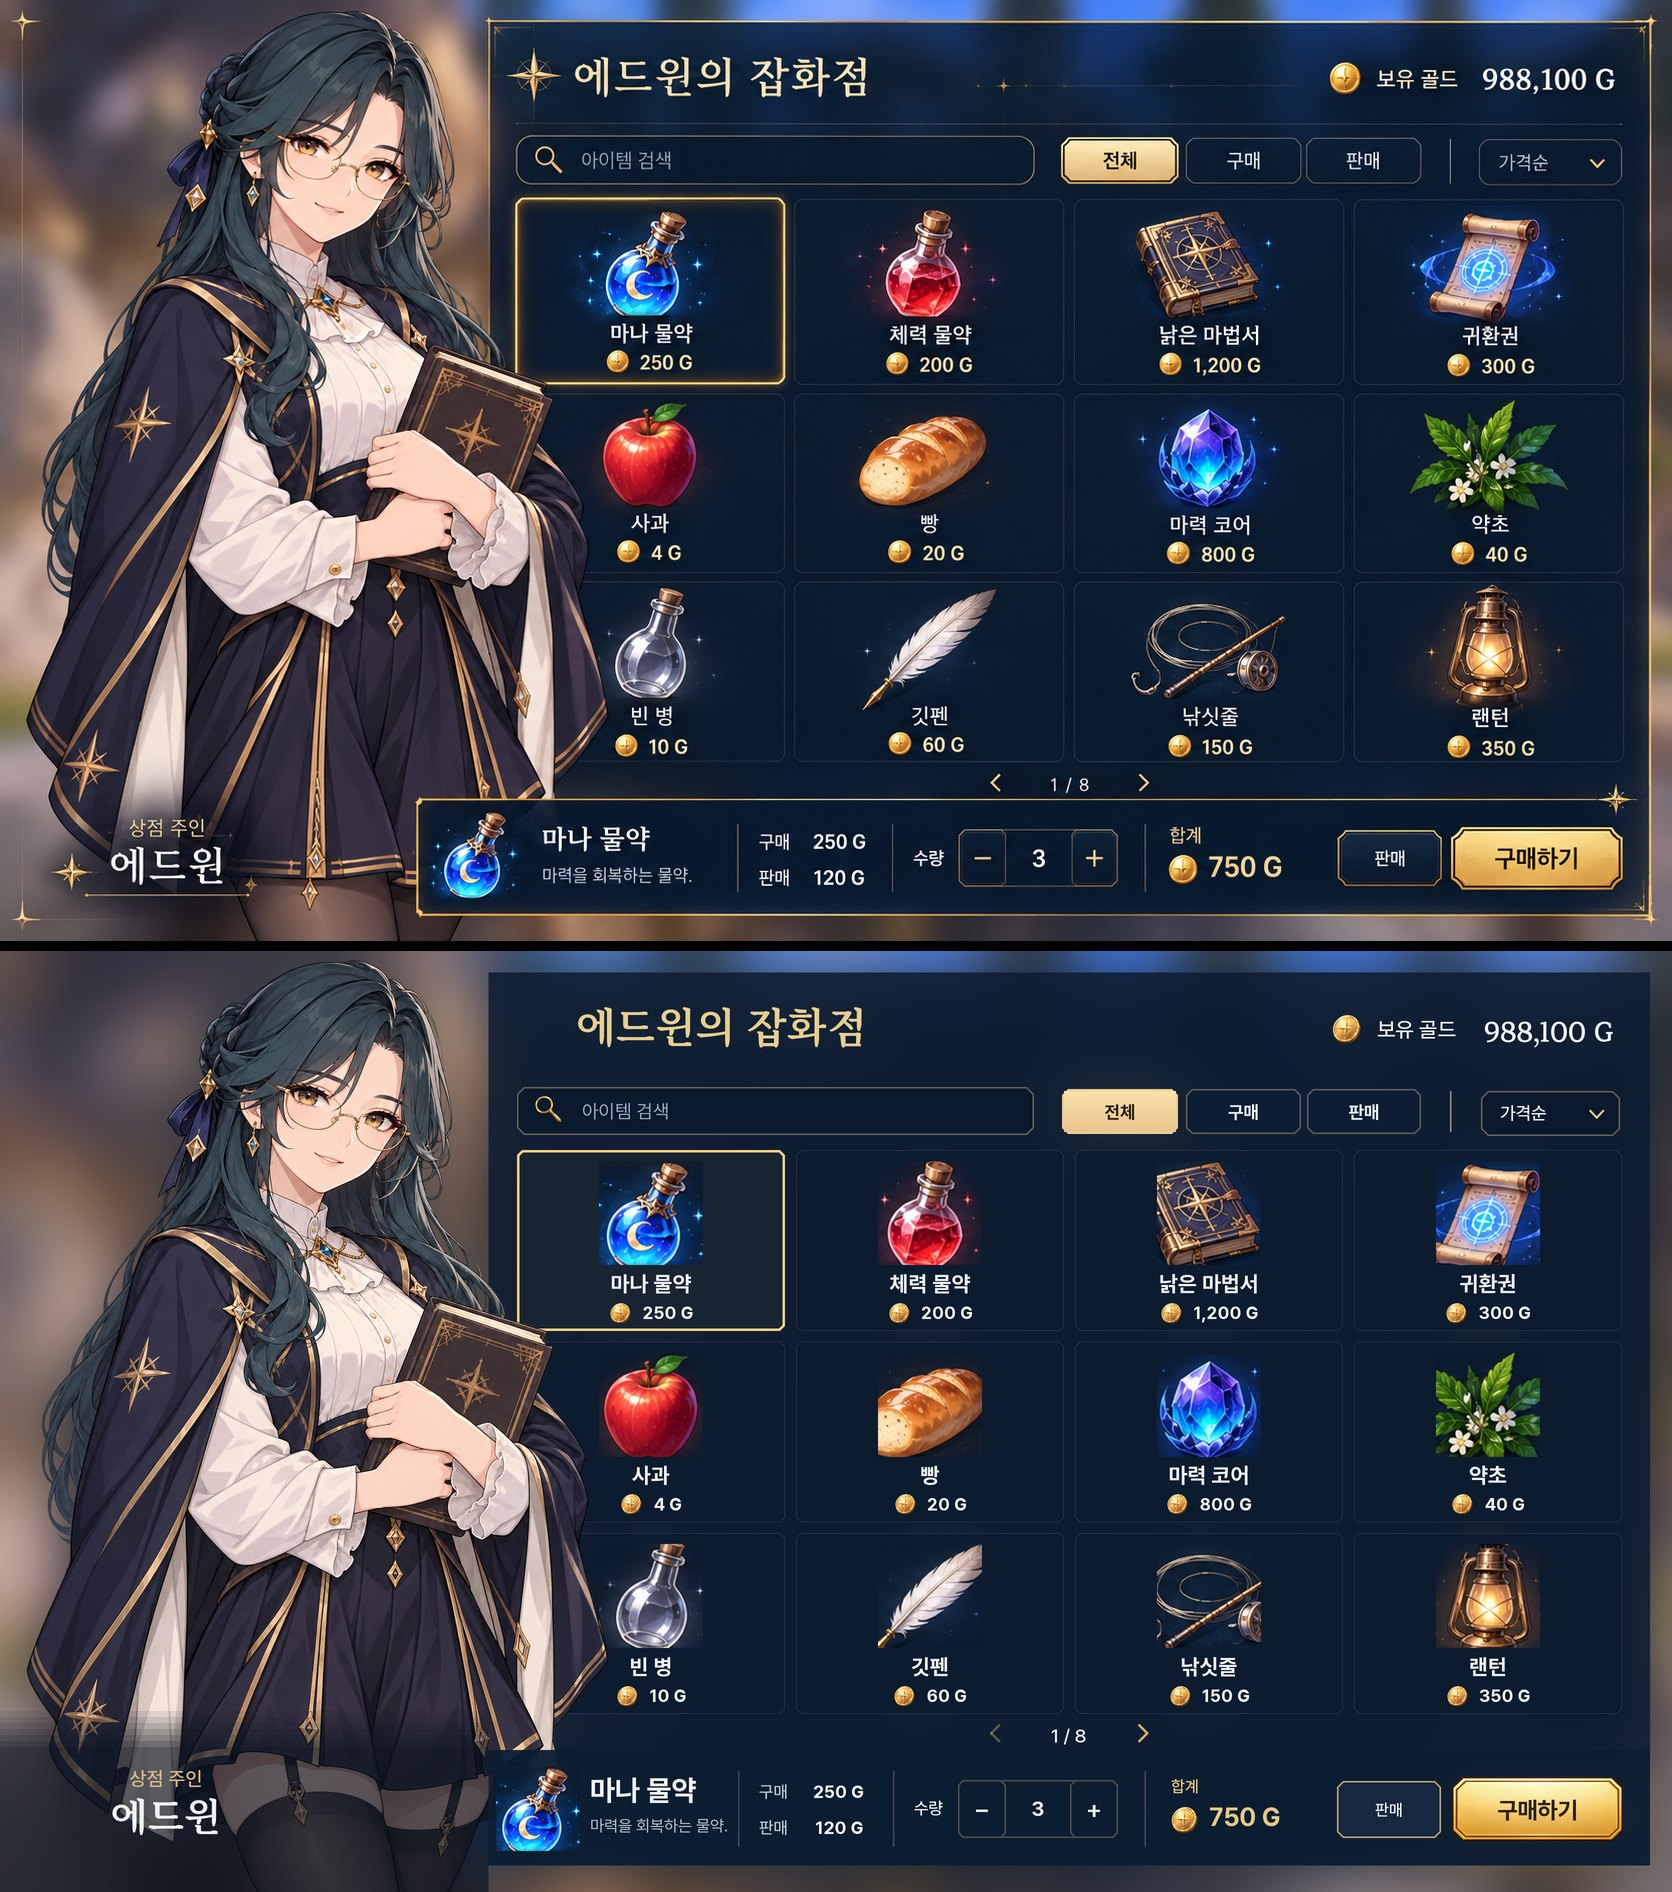
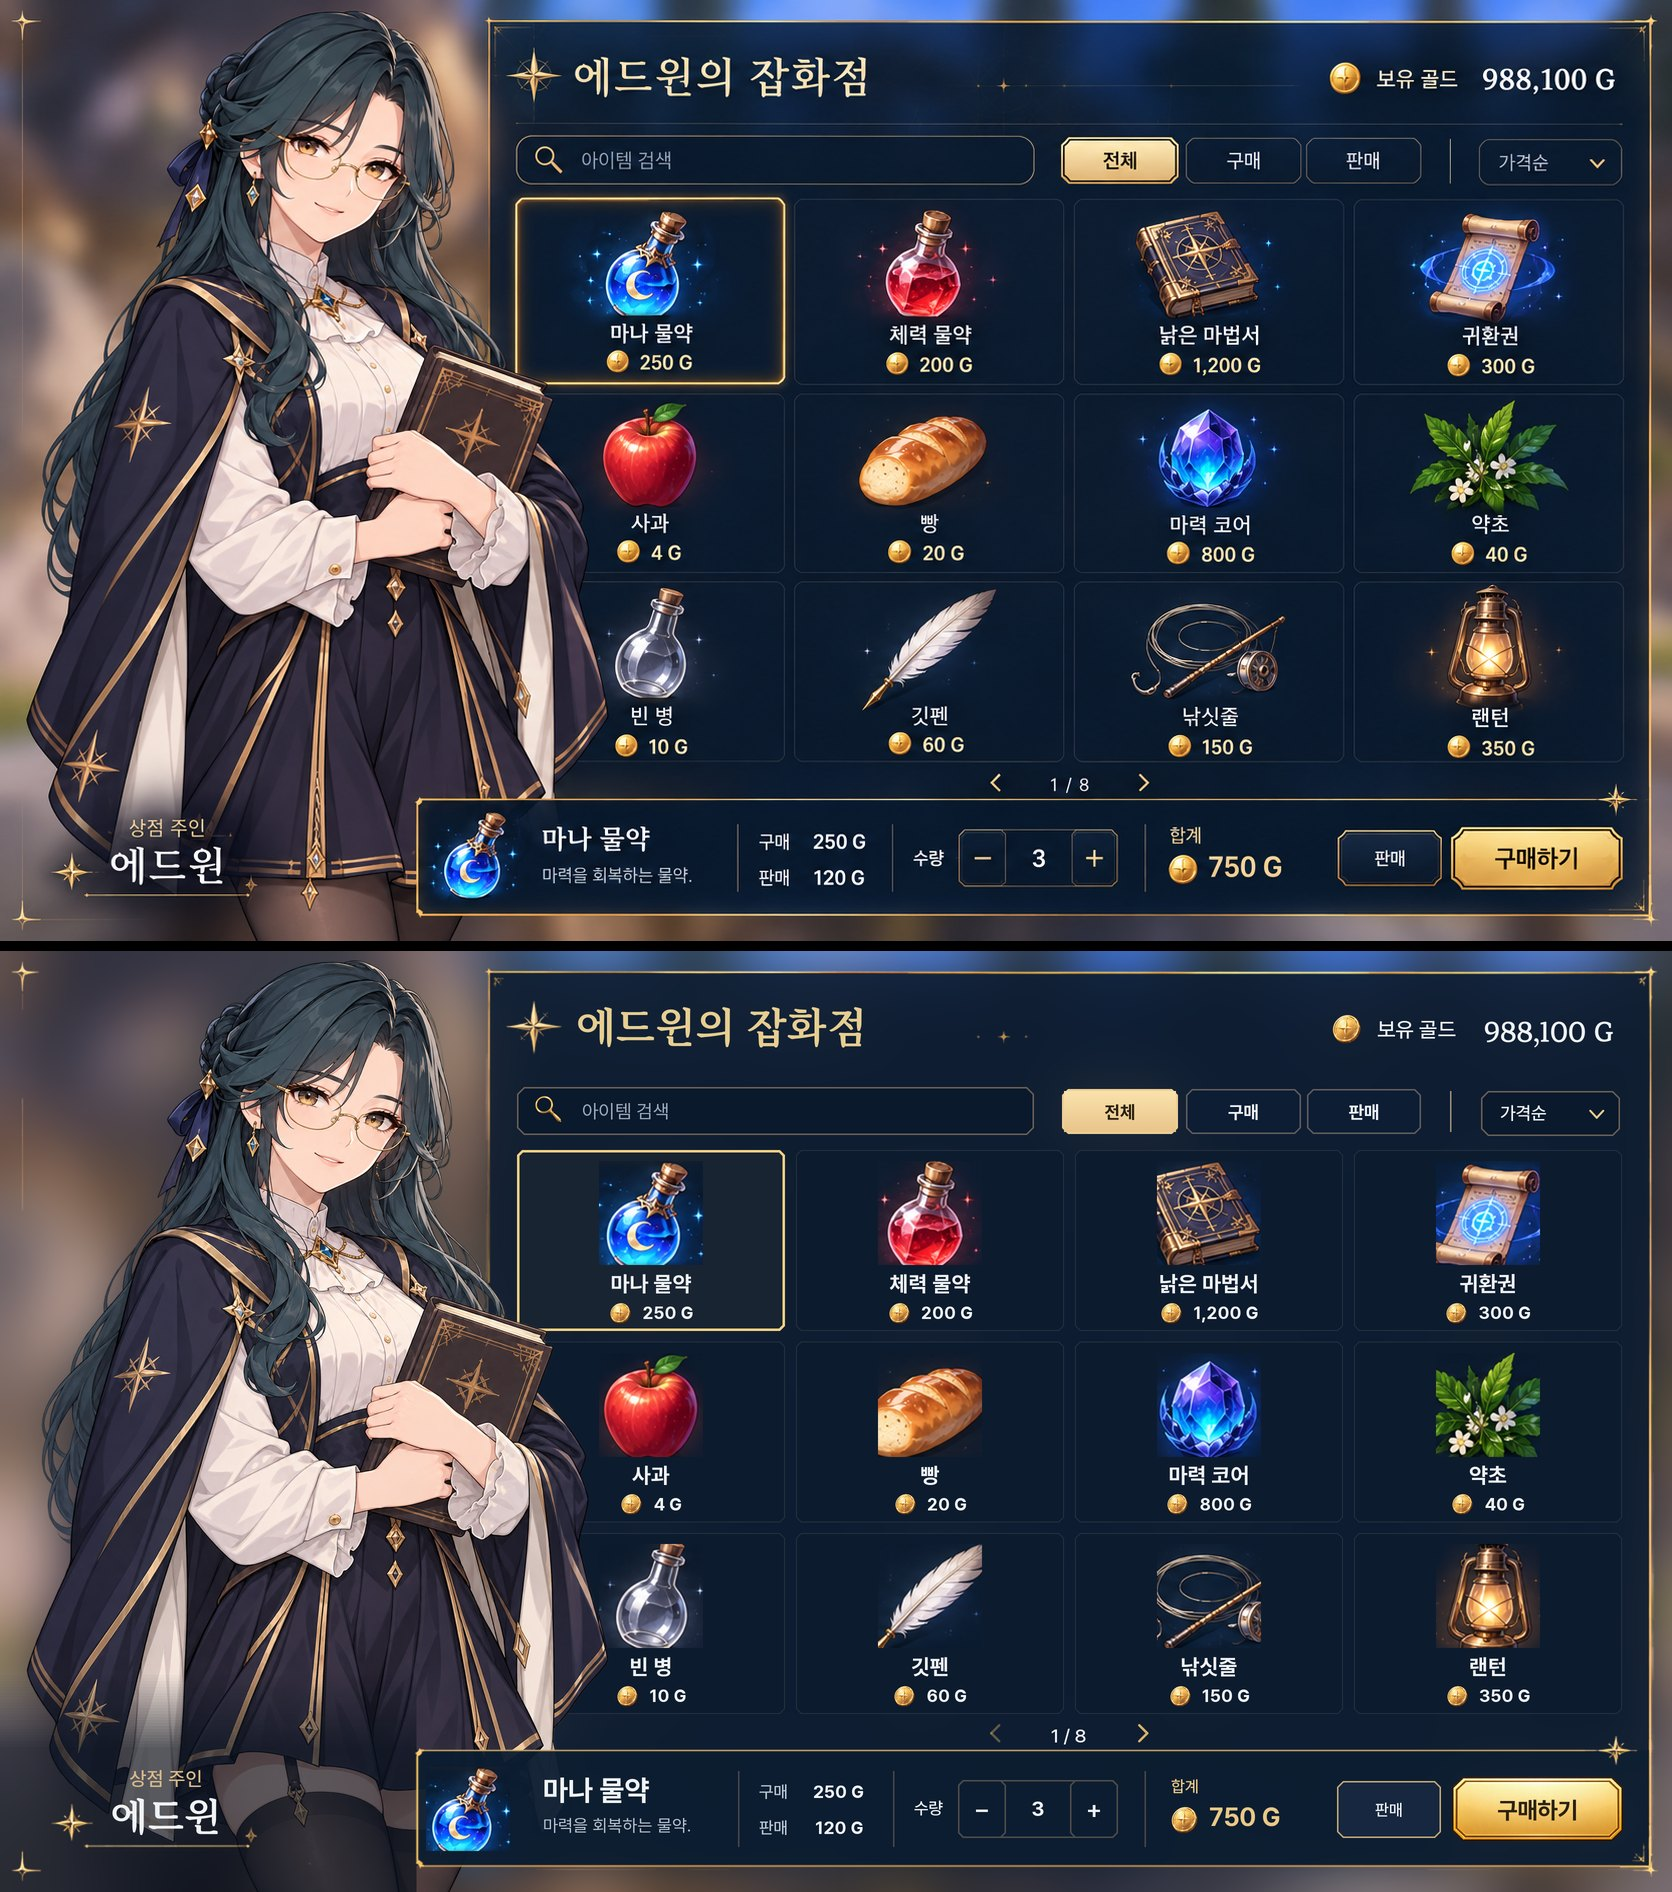
상점 v3 5차: 레퍼런스의 얇은 금색 선·별을 레퍼런스에서 그대로 추출한 오버레이로 (패널 테두리·하단 바·왼쪽 실선·이름 장식), 하단 바 x416.5 복구
Claude-Session: https://claude.ai/code/session_01C6Qo7jp46mG7XPa1vTVLAz

diff --git a/magic-codex-fabric/src/main/java/school/magiccodex/client/ShopView.java b/magic-codex-fabric/src/main/java/school/magiccodex/client/ShopView.java
@@ -7,7 +7,9 @@ import java.util.List;
  * 1672x941). Every position, size and colour below was measured from reference.png; nothing is added.
  * Pure Java: ShopScreen supplies a Minecraft {@link Canvas}; the review preview supplies a Java2D one.
  *
- * Texture: button_primary.png only (shop_frame.png is not drawn, see draw()). Only what the bundle
+ * Textures: button_primary.png, and shop_deco_panel.png / shop_deco_front.png — the mockup's own thin gold lines
+ * and stars, lifted out of reference.png (tools/shop-preview/extract_deco.py) because shop_frame.png's thick lines
+ * do not match it. shop_frame.png is not drawn. Only what the bundle
  * README lists is geometry (card borders, selection line, arrows, search field, secondary buttons); no other
  * lines or ornaments are drawn. Order: panel, catalogue, the illustration (it overlaps the panel's left edge),
  * the frame's footer area over it, then the role / name text.
@@ -81,7 +83,7 @@ final class ShopView {
     // ---- geometry (reference.png pixels) ----------------------------------------------------------------------
     // Panel lines in the mockup: outer x488.5..1650, top y21.5, footer line y799, bottom y914.5.
     // shop_frame.png 1440x1092 lines: outer x37..1402, top y62, footer y887.5, bottom y1017 → mapped onto them.
-    static final float PANEL_L = 488.5f, PANEL_R = 1650, PANEL_T = 21.5f, FOOT_T = 799, FOOT_B = 914.5f;
+    static final float PANEL_L = 488.5f, PANEL_R = 1650, PANEL_T = 21.5f, FOOT_T = 799, FOOT_B = 914.5f, FOOT_L = 416.5f;
     static final float KX = (PANEL_R - PANEL_L) / (1402 - 37), KY_TOP = (FOOT_T - PANEL_T) / (887.5f - 62), KY_FOOT = (FOOT_B - FOOT_T) / (1017 - 887.5f);
     static float fx(float u) { return PANEL_L + (u - 37) * KX; }
     static float fyTop(float v) { return PANEL_T + (v - 62) * KY_TOP; }
@@ -101,7 +103,7 @@ final class ShopView {
     // pager
     static final float PAGER_X = 1069, PAGER_Y = 785, ARROW_DX = 74, ARROW_S = 26;
     // footer (mockup bar 416.5..1650 x 799..914.5)
-    static final float FOOT_CY = 857.5f, F_ICON_CX = 538, F_ICON = 84, F_TEXT_X = 590, F_NAME_CY = 839, F_DESC_CY = 874.5f, F_TEXT_MAX = 140,
+    static final float FOOT_CY = 857.5f, F_ICON_CX = 468, F_ICON = 84, F_TEXT_X = 543, F_NAME_CY = 839, F_DESC_CY = 874.5f, F_TEXT_MAX = 186,
             F_DIV1 = 738, F_LABEL_X = 759, F_VALUE_RIGHT = 864, F_BUY_CY = 841, F_SELL_CY = 877, F_DIV2 = 893,
             QTY_LABEL_X = 914, QTY_X = 958, QTY_Y = 829, QTY_W = 160, QTY_H = 58, STEP = 48, F_DIV3 = 1144.5f,
             SUM_LABEL_X = 1171, SUM_LABEL_CY = 835, SUM_COIN_X = 1182, SUM_X = 1209, SUM_CY = 866, SUM_MAX = 120,
@@ -186,9 +188,9 @@ final class ShopView {
     static boolean cardSells(Model m, Row r) { return m.tab() == Tab.SELL || !r.buys(); }
     // ---- frame ----------------------------------------------------------------------------------------------
     static void draw(Canvas c, Model m) {
-        // panel backing only. shop_frame.png is not drawn: its thick yellow border / ornament lines do not match the
-        // approved mockup (owner 2026-10-24: remove them).
+        // panel backing, then the mockup's thin border / title star / header lines (shop_frame.png is not drawn)
         c.fill(PANEL_L, PANEL_T, PANEL_R - PANEL_L, FOOT_T - PANEL_T, PANEL);
+        c.image(ROOT + "shop_deco_panel.png", 0, 0, W, H, 0, 0, W, H, W, H);
 
         // title · gold
         float labelW = c.width("보유 골드", 21.4f, Face.LABEL);
@@ -223,13 +225,13 @@ final class ShopView {
             c.portrait(NPC_X, Math.max(H, m.screenBottom()) - h, w, h);
         }
 
-        // footer area (over the illustration, as in the mockup)
-        c.fill(PANEL_L, FOOT_T, PANEL_R - PANEL_L, FOOT_B - FOOT_T, FOOTER);
+        // soft dark band behind the role / name (fades in from above)
+        for (int i = 0; i < 24; i++) c.fill(0, NAME_BAND_Y - 72 + i * 3, FOOT_L, 3, (Math.round((i + 1) * 0xA8 / 25f)) << 24 | 0x08111E);
+        c.fill(0, NAME_BAND_Y, FOOT_L, H - NAME_BAND_Y, 0xA808111E);
+        // footer bar over the illustration, then the mockup's own thin lines and stars on top
+        c.fill(FOOT_L, FOOT_T, PANEL_R - FOOT_L, FOOT_B - FOOT_T, FOOTER);
+        c.image(ROOT + "shop_deco_front.png", 0, 0, W, H, 0, 0, W, H, W, H);
         footer(c, m);
-
-        // role / name over a soft dark band (fades in from above) so it stays readable over the illustration
-        for (int i = 0; i < 6; i++) c.fill(0, NAME_BAND_Y - 36 + i * 6, PANEL_L, 6, ((i + 1) * 0x18) << 24 | 0x08111E);
-        c.fill(0, NAME_BAND_Y, PANEL_L, H - NAME_BAND_Y, 0xA808111E);
         fitted(c, m.role(), ROLE_CX, ROLE_CY, 19.5f, 220, ROLE, Face.LABEL, true);
         fitted(c, m.npcName(), NAME_CX, NAME_CY, 37.8f, 300, WHITE, Face.TITLE, true);
 

diff --git a/tools/shop-preview/extract_deco.py b/tools/shop-preview/extract_deco.py
@@ -1,0 +1,62 @@
+import cv2, numpy as np
+from PIL import Image
+ref=cv2.imread('ref/reference.png').astype(np.float32)  # BGR
+H,W=ref.shape[:2]
+B,G,R=ref[...,0],ref[...,1],ref[...,2]
+gold=((R-B)>40)&(R>100)&(G>70)
+def rect(m,x0,y0,x1,y1): m[y0:y1,x0:x1]=1
+panel=np.zeros((H,W),np.uint8); front=np.zeros((H,W),np.uint8)
+# panel layer (drawn before cards / NPC)
+rect(panel,478,15,1660,27)       # top border line
+rect(panel,1647,15,1653,800)     # right border (upper part)
+rect(panel,486,15,492,330)       # left border line (the rest is under the illustration)
+rect(panel,478,10,520,45)        # top-left corner ornament
+rect(panel,503,48,564,104)       # title star
+rect(panel,1600,8,1665,50)       # top-right corner ornament
+rect(panel,900,74,1330,96)       # dotted ornament line under the title row
+rect(panel,500,119,1640,128)     # header line
+# front layer (drawn after the illustration and the footer fill)
+rect(front,413,797,1645,802)     # footer top line
+rect(front,1588,776,1642,824)    # footer top-right star
+rect(front,1647,790,1653,925)    # right border (footer part)
+rect(front,413,912,1645,918)     # footer bottom line
+rect(front,1600,892,1672,941)    # bottom-right corner
+rect(front,1626,880,1645,912)    # bottom-right inner corner lines
+rect(front,414,795,420,920)      # footer left end
+rect(front,412,795,424,805)      # its top corner
+rect(front,412,908,424,920)      # its bottom corner
+rect(front,8,0,38,40)            # top star of the thin left line
+rect(front,19,40,26,300)         # thin left line (upper)
+rect(front,19,740,26,905)        # thin left line (lower)
+rect(front,0,900,48,941)         # bottom star of the thin left line
+rect(front,48,914,370,924)       # bottom thin line
+rect(front,40,840,104,910)       # star by the name
+rect(front,80,890,272,899)       # underline
+rect(front,232,872,262,902)      # small star on the underline
+for name,m in [('panel',panel),('front',front)]:
+    sel=(gold&(m>0)).astype(np.uint8)
+    dil=cv2.dilate(sel,np.ones((5,5),np.uint8))
+    bg=cv2.inpaint(ref.astype(np.uint8),dil*255,7,cv2.INPAINT_TELEA).astype(np.float32)
+    gref=np.array([118,205,247],np.float32)   # BGR of the line core
+    d=ref-bg; gd=gref-bg
+    a=np.clip((d*gd).sum(2)/np.maximum((gd*gd).sum(2),1),0,1)
+    a[dil==0]=0
+    a[a<0.06]=0
+    col=np.clip(bg+d/np.maximum(a,0.06)[...,None],0,255)
+    out=np.zeros((H,W,4),np.uint8)
+    out[...,0]=col[...,2];out[...,1]=col[...,1];out[...,2]=col[...,0];out[...,3]=(a*255).astype(np.uint8)
+    out[a==0]=0
+    if name=='front':
+        # straight runs copied from one clean sample so the illustration's gold trims never leak into them
+        def hrow(y0,y1,x0,x1,xs):
+            out[y0:y1,x0:x1]=out[y0:y1,xs:xs+1]
+        def vcol(x0,x1,y0,y1,ys):
+            out[y0:y1,x0:x1]=out[ys:ys+1,x0:x1]
+        hrow(797,802,424,1585,1000)
+        hrow(912,918,424,1620,1000)
+        vcol(414,420,806,908,850)
+        out[780:797,424:1585]=0
+        out[806:908,400:414]=0
+        out[806:908,420:440]=0
+    Image.fromarray(out,'RGBA').save(f'shop_deco_{name}.png',optimize=True)
+    print(name,(a>0).sum())

diff --git a/magic-codex-fabric/src/test/java/school/magiccodex/client/ShopViewTest.java b/magic-codex-fabric/src/test/java/school/magiccodex/client/ShopViewTest.java
@@ -28,11 +28,11 @@ class ShopViewTest {
             for (int j = i + 1; j < boxes.size(); j++) assertFalse(overlap(boxes.get(i), boxes.get(j)), i + "/" + j);
         for (var b : boxes) {
             assertTrue(b[1] > ShopView.FOOT_T && b[1] + b[3] < ShopView.FOOT_B);
-            assertTrue(b[0] > ShopView.PANEL_L + 4 && b[0] + b[2] < ShopView.PANEL_R);
+            assertTrue(b[0] > ShopView.FOOT_L && b[0] + b[2] < ShopView.PANEL_R);
         }
         assertTrue(ShopView.SUM_X + ShopView.SUM_MAX < ShopView.SWITCH_X);
         assertTrue(ShopView.F_TEXT_X + ShopView.F_TEXT_MAX < ShopView.F_DIV1);
-        assertTrue(ShopView.footIconBox()[0] > ShopView.PANEL_L + 4, "footer icon stays inside the frame");
+        assertTrue(ShopView.footIconBox()[0] > ShopView.FOOT_L, "footer icon stays inside the footer bar");
     }
 
     @Test void headerRowAndGridFitInsideThePanel() {

diff --git a/docs/handoff/CLAUDE_SHOP_V3_20261024.md b/docs/handoff/CLAUDE_SHOP_V3_20261024.md
@@ -147,3 +147,25 @@ The overlay check against reference.png is in `docs/handoff/img/shop/compare_v3.
 - **The soft dark band behind the role / name is back**, as in the first pass and the mockup's darker lower-left:
   - six 6px fade steps from y760, then `0xA808111E` from y796 down
   - it spans x0..488.5
+
+## 8. 5th pass — owner: the mockup's thin gold lines must be there, exactly as in the mockup
+
+`shop_frame.png` draws thick, bright lines that the mockup does not have. Code-drawn lines did not look like the mockup either. So the mockup's own lines and stars are lifted out of `reference.png` into two overlays:
+
+- **`textures/gui/shop/v3/shop_deco_panel.png`** (1672×941, drawn right after the panel fill, before the cards and the illustration):
+  - thin panel border (top, right, upper left)
+  - the two top corner ornaments
+  - the four-point star before the title
+  - the small dotted ornament line and the faint header line
+- **`textures/gui/shop/v3/shop_deco_front.png`** (1672×941, drawn after the illustration and the footer fill):
+  - footer bar border (x416.5..1650 × 799..914.5) with its right star and corners
+  - the thin left-edge line with its two stars and the short bottom line
+  - the star, the underline and the small star by the NPC name
+- **How the overlays are made** (`tools/shop-preview/extract_deco.py`):
+  - Each piece is masked to its own rectangle.
+  - The gold pixels are inpainted away to get the background, and the line is unmixed as colour + alpha over that background.
+  - Straight runs that cross the illustration are copied from one clean sample, so no gold trim from the character leaks in.
+  - Both overlays are about 50 KB.
+- **The footer bar is back at x416.5** (the mockup's box). The footer icon and name are back at the measured spots: icon centre x468, text x543, width 186.
+- **The dark band** behind the role / name is kept. Its fade is now 24 steps of 3px, so it has no visible bands.
+- Everything else is unchanged, including the remaining runtime geometry from the README (cards, fields, tabs, stepper, switch, dividers, arrows).
